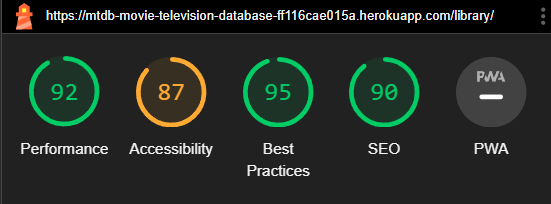
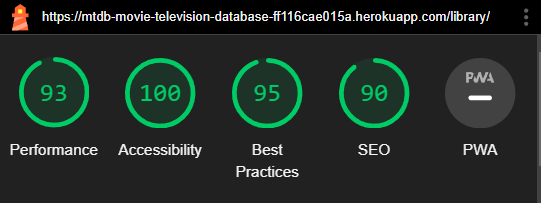
Update lighthouse screenshots

diff --git a/TESTING.md b/TESTING.md
@@ -80,15 +80,15 @@ I've tested my deployed project using the Lighthouse Audit tool to check for any
 | Page | Size | Screenshot | Notes |
 | --- | --- | --- | --- |
 | Home | Mobile | ![screenshot](documentation/lighthouse/lighthouse-home-mobile.png) | Some minor warnings |
-| Home | Desktop | ![screenshot](documentation/lighthouse/lighthouse-home-desktop.png) | Some minor warnings |
-| Search-results (via popular films & tv shows on home page) | Mobile | ![screenshot](documentation/lighthouse/lighthouse-search-results-mobile.png) | Some minor warnings |
-| Search-results (via popular films & tv shows on home page) | Desktop | ![screenshot](documentation/lighthouse/lighthouse-search-results-desktop.png) | Some minor warnings |
+| Home | Desktop | ![screenshot](documentation/lighthouse/lighthouse-home-desktop.png) | No major problems |
+| Search-results (via popular films & tv shows on home page) | Mobile | ![screenshot](documentation/lighthouse/lighthouse-search-results-mobile.png) | No major problems |
+| Search-results (via popular films & tv shows on home page) | Desktop | ![screenshot](documentation/lighthouse/lighthouse-search-results-desktop.png) | No major problems |
 | Library | Mobile | ![screenshot](documentation/lighthouse/lighthouse-library-mobile.png) | Some minor warnings |
-| Library | Desktop | ![screenshot](documentation/lighthouse/lighthouse-library-desktop.png) | Few warnings |
+| Library | Desktop | ![screenshot](documentation/lighthouse/lighthouse-library-desktop.png) | No major problems |
 | Feature-details | Mobile | ![screenshot](documentation/lighthouse/lighthouse-feature-details-mobile.png) | Some minor warnings |
-| Feature-details | Desktop | ![screenshot](documentation/lighthouse/lighthouse-feature-details-desktop.png) | Some minor warnings |
+| Feature-details | Desktop | ![screenshot](documentation/lighthouse/lighthouse-feature-details-desktop.png) | No major problems |
 | List | Mobile | ![screenshot](documentation/lighthouse/lighthouse-list-mobile.png) | Some minor warnings |
-| List | Desktop | ![screenshot](documentation/lighthouse/lighthouse-list-desktop.png) | Some minor warnings |
+| List | Desktop | ![screenshot](documentation/lighthouse/lighthouse-list-desktop.png) | No major problems |
 
 ## Defensive Programming
 
